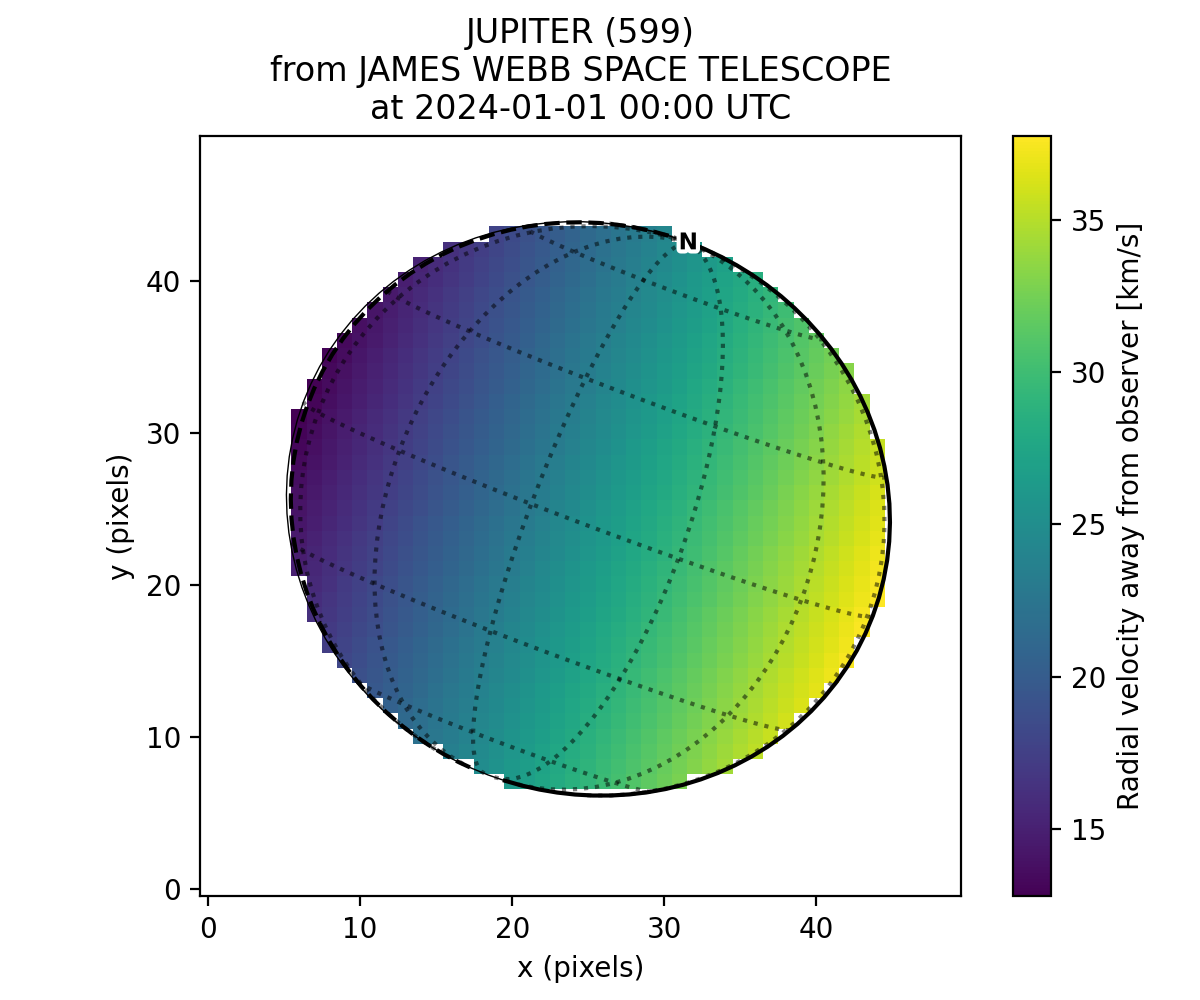
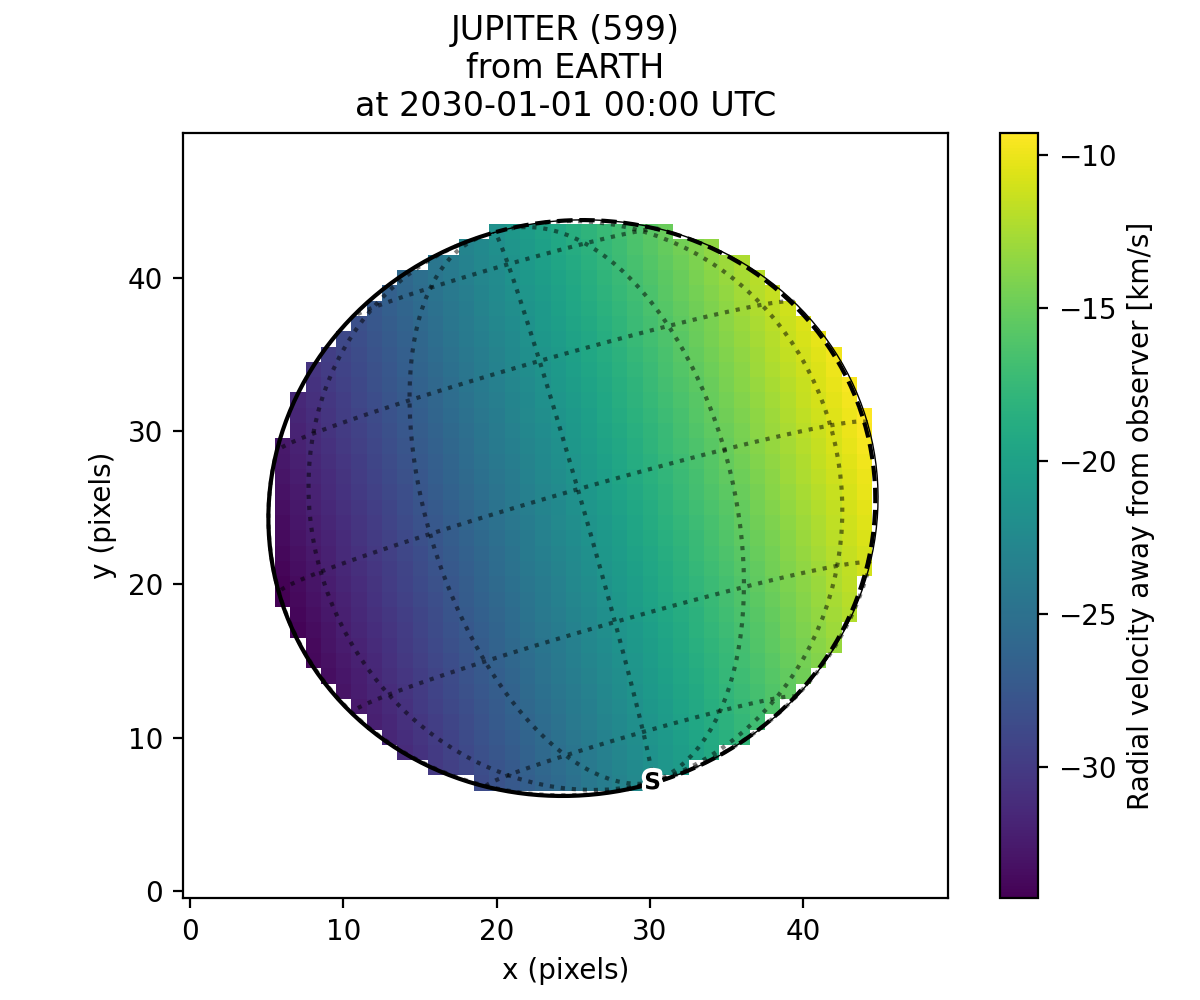
Document SPICE kernels required for examples
#280

Changed region(s): [[0.0617, 0.0, 0.8017, 0.992], [0.8325, 0.124, 0.9558, 0.899], [0.3392, 0.527, 0.37, 0.558]]

diff --git a/examples/general_python_api.py b/examples/general_python_api.py
@@ -12,18 +12,34 @@ import numpy as np
 
 sys.path.insert(0, '..')  # Use local dev version of planetmapper
 import planetmapper
+from planetmapper.kernel_downloader import download_urls
 
 PLOT_DIRECTORY = '../docs/images'
 
 
 def main():
     pass
+    # download_spice_kernels()
     # plot_saturn_wireframe()
     # plot_neptune_wireframe()
     # plot_jupiter_wireframe()
     # plot_europa_backplane()
     # plot_jupiter_backplane()
     # plot_jupiter_mapped()
+
+
+def download_spice_kernels():
+    # This command will download ~2GB of data
+    # Note, the exact URLs in this example may not work if new kernel versions are published
+    download_urls(
+        'https://naif.jpl.nasa.gov/pub/naif/generic_kernels/lsk/',
+        'https://naif.jpl.nasa.gov/pub/naif/generic_kernels/pck/',
+        'https://naif.jpl.nasa.gov/pub/naif/generic_kernels/spk/planets/de430.bsp',
+        'https://naif.jpl.nasa.gov/pub/naif/generic_kernels/spk/satellites/jup365.bsp',
+        'https://naif.jpl.nasa.gov/pub/naif/generic_kernels/spk/satellites/sat441.bsp',
+        'https://naif.jpl.nasa.gov/pub/naif/generic_kernels/spk/satellites/nep097.bsp',
+        'https://naif.jpl.nasa.gov/pub/naif/HST/kernels/spk/',
+    )
 
 
 def plot_saturn_wireframe():
@@ -102,8 +118,8 @@ def plot_europa_backplane():
 
 def plot_jupiter_backplane():
     # Create an object representing how Jupiter would appear in a 50x50 pixel image
-    # taken by JWST at a specific time
-    body = planetmapper.BodyXY('jupiter', utc='2024-01-01', observer='JWST', sz=50)
+    # taken from Earth at a specific time
+    body = planetmapper.BodyXY('jupiter', utc='2030-01-01', observer='Earth', sz=50)
     body.set_disc_params(x0=25, y0=25, r0=20)
 
     fig, ax = plt.subplots(figsize=(6, 5), dpi=200)

diff --git a/docs/general_python_api.rst b/docs/general_python_api.rst
@@ -4,16 +4,34 @@ Python module
 *************
 This page shows some simple examples of using the `planetmapper` module in Python code. For more details, see the full :ref:`API documentation <api>`.
 
+For PlanetMapper to function, you will need to download a series of :ref:`SPICE kernels <SPICE kernels>` containing the positions and orientations of the solar system bodies you are interested in. The code snippet below will download all the appropriate kernels needed for the examples on this page. For more details about SPICE kernels, including how to choose, download, and use them, see the :ref:`SPICE kernel documentation page <SPICE kernels>`.
+
+::
+
+    from planetmapper.kernel_downloader import download_urls
+    # This command will download ~2GB of data
+    # Note, the exact URLs in this example may not work if new kernel versions are published
+    download_urls(
+        'https://naif.jpl.nasa.gov/pub/naif/generic_kernels/lsk/',
+        'https://naif.jpl.nasa.gov/pub/naif/generic_kernels/pck/',
+        'https://naif.jpl.nasa.gov/pub/naif/generic_kernels/spk/planets/de430.bsp',
+        'https://naif.jpl.nasa.gov/pub/naif/generic_kernels/spk/satellites/jup365.bsp',
+        'https://naif.jpl.nasa.gov/pub/naif/generic_kernels/spk/satellites/sat441.bsp',
+        'https://naif.jpl.nasa.gov/pub/naif/generic_kernels/spk/satellites/nep097.bsp',
+        'https://naif.jpl.nasa.gov/pub/naif/HST/kernels/spk/',
+    )
+
+
 
 Coordinate conversions
 ======================
 Coordinate conversions can easily be performed using functions such as :func:`planetmapper.Body.lonlat2radec` to calculate the sky coordinates corresponding to a planetographic longitude/latitude coordinate on the surface of the target. 
 
-This code shows an example of using some of the functions in :class:`planetmapper.Body` to calculate information about observations of Jupiter from Mars: ::
+This code shows an example of using some of the functions in :class:`planetmapper.Body` to calculate information about observations of Jupiter from Venus: ::
 
     import planetmapper
 
-    body = planetmapper.Body('jupiter', '2020-01-01', observer='mars')
+    body = planetmapper.Body('jupiter', '2020-01-01', observer='venus')
 
     coordinates = [(42, 0), (123, 45)]
     for lon, lat in coordinates:
@@ -237,20 +255,20 @@ Backplanes can also be generated for observations which do not exist using :clas
     import numpy as np
 
     # Create an object representing how Jupiter would appear in a 50x50 pixel image
-    # taken by JWST at a specific time
-    body = planetmapper.BodyXY('jupiter', utc='2024-01-01', observer='JWST', sz=50)
+    # taken from Earth at a specific time
+    body = planetmapper.BodyXY('jupiter', utc='2030-01-01', observer='Earth', sz=50)
     body.set_disc_params(x0=25, y0=25, r0=20)
 
     fig, ax = plt.subplots(figsize=(6, 5), dpi=200)
-    body.plot_backplane_img('RADIAL-VELOCITY',ax=ax)
+    body.plot_backplane_img('RADIAL-VELOCITY', ax=ax)
     fig.tight_layout()
     plt.show()
 
     # Backplane images can also be accessed and manipulated directly
     radial_velocities = body.get_backplane_img('RADIAL-VELOCITY')
-    print('Average radial velocity:', np.nanmean(radial_velocities))
+    print(f'Average radial velocity: {np.nanmean(radial_velocities):.2f} km/s')
 
-    # Average radial velocity: 25.27 km/s
+    # Average radial velocity: -21.78 km/s
     
 .. image:: images/jupiter_backplane.png
     :width: 600

diff --git a/docs/spice_kernels.rst b/docs/spice_kernels.rst
@@ -32,9 +32,9 @@ To download kernels which are required for virtually every SPICE calculation, ru
 
 This will automatically download a series of 'leap second kernels' and 'planetary constant kernels' to your computer. The function :func:`planetmapper.kernel_downloader.download_urls` effectively replicates the file structure from the `NAIF database <https://naif.jpl.nasa.gov/pub/naif/>`_ to your local system. Therefore, the leap second kernels will be automatically downloaded to `~/spice_kernels/naif/generic_kernels/lsk/` and the planetary constant kernels will be downloaded to `~/spice_kernels/naif/generic_kernels/pck/`.
 
-If you don't want to use :func:`planetmapper.kernel_downloader.download_urls`, you can instead manually browse and download files from https://naif.jpl.nasa.gov/pub/naif/ yourself.
+These required kernels are relatively small (~50KB for `.../lsk` and ~50MB for `.../pck`), so downloading them should be relatively fast. If you don't want to use :func:`planetmapper.kernel_downloader.download_urls`, you can instead manually browse and download files from https://naif.jpl.nasa.gov/pub/naif/ yourself.
 
-These required kernels are relatively small (~50KB for `.../lsk` and ~50MB for `.../pck`), so downloading them should be relatively fast. Once you have downloaded these required kernels, you will also need to download some of the ephemeris kernels described below.
+Once you have downloaded these required kernels, you will also need to download some of the ephemeris kernels described below.
 
 
 Planetary ephemeris kernels
